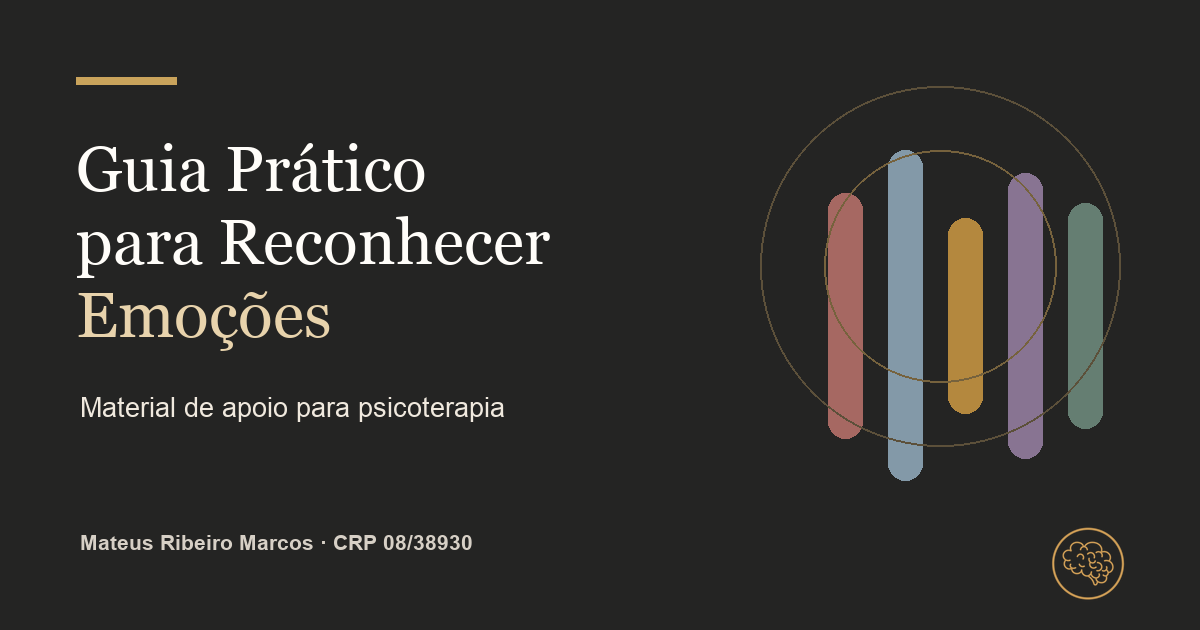
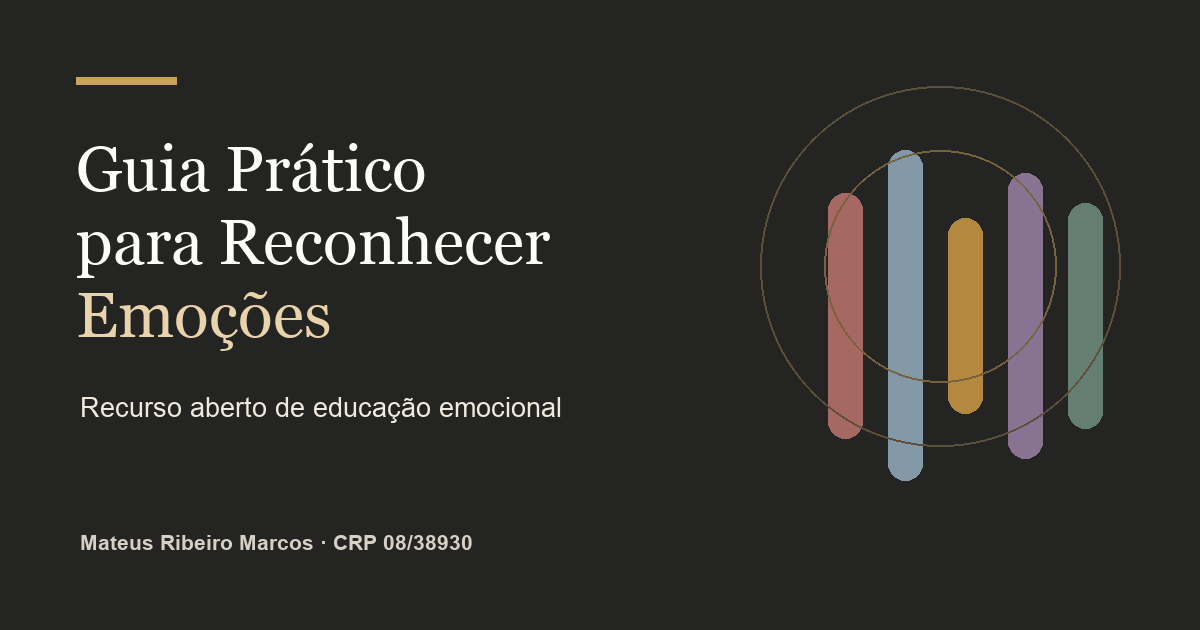
refactor(site): alinha privacidade e posicionamento do guia

Changed region(s): [[0.0617, 0.6333, 0.4625, 0.6635], [0.8633, 0.8143, 0.9558, 0.9651]]

diff --git a/privacidade/index.html b/privacidade/index.html
@@ -32,6 +32,7 @@
         </a>
         <nav class="simple-header-nav" aria-label="Recursos de Mateus Ribeiro Marcos">
           <a class="button button-small button-outline resource-button" href="/guia-emocoes/">Guia de Emoções</a>
+          <a class="button button-small button-outline resource-button" href="https://area-do-paciente.psico-mateus.workers.dev">Área do paciente</a>
           <a class="button button-small button-dark resource-button" href="/">Site profissional</a>
         </nav>
       </div>
@@ -80,6 +81,17 @@
             </p>
           </section>
 
+          <section aria-labelledby="portal-privacy-title">
+            <h2 id="portal-privacy-title">Área do paciente</h2>
+            <p>
+              A Área do paciente é um ambiente separado, exclusivo para pacientes atuais e com
+              acesso por conta. Os dados de cadastro, os registros privados e o compartilhamento
+              opcional são explicados no
+              <a href="https://area-do-paciente.psico-mateus.workers.dev/privacidade/">
+                aviso de privacidade da própria Área do paciente</a>.
+            </p>
+          </section>
+
           <section aria-labelledby="links-title">
             <h2 id="links-title">Serviços externos</h2>
             <p>
@@ -123,7 +135,7 @@
     <footer class="site-footer">
       <div class="page-shell footer-bottom">
         <span>© <span data-current-year>2026</span> Mateus Ribeiro Marcos · Psicólogo Clínico · CRP 08/38930</span>
-        <span><a href="/">Site profissional</a> · <a href="/guia-emocoes/">Guia de Emoções</a></span>
+        <span><a href="/">Site profissional</a> · <a href="/guia-emocoes/">Guia de Emoções</a> · <a href="https://area-do-paciente.psico-mateus.workers.dev">Área do paciente</a></span>
       </div>
     </footer>
   </body>

diff --git a/assets/images/sources/generate_assets.py b/assets/images/sources/generate_assets.py
@@ -63,7 +63,7 @@ def generate_guide_preview() -> None:
     draw.text((76, 278), "Emoções", font=font(SERIF, 64), fill="#E8D3AC")
     draw.text(
         (80, 392),
-        "Material de apoio para psicoterapia",
+        "Recurso aberto de educação emocional",
         font=font(SANS, 27),
         fill="#F0E9DE",
     )
